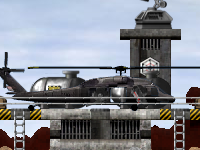
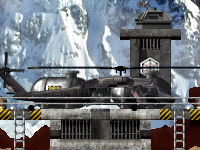
+ Backgrounds eingeführt: Schneeberg 1/2, Grashügel 1/2, Nebel und Kräne. - Hazard-Background entfernt. * Cold Cash mit Backgrounds und Ground Zero mit neuen Backgrounds ausgestattet.

diff --git a/ModernCombatFINALTRY.c4f/Backgrounds.c4d/SnowMountain.c4d/Script.c b/ModernCombatFINALTRY.c4f/Backgrounds.c4d/SnowMountain.c4d/Script.c
@@ -1,10 +1,12 @@
-/*-- Docks --*/
+/*-- Schneeberg --*/
 
 #strict
 
 
+/* Initialisierung */
+
 public func Initialize()
 {
   SetCategory(GetCategory() | C4D_Parallax() | C4D_Background());
-  Local()=40; Local(1)=60;
+  Local()=30; Local(1)=30;
 }

diff --git a/ModernCombatFINALTRY.c4f/Backgrounds.c4d/Docks.c4d/Script.c b/ModernCombatFINALTRY.c4f/Backgrounds.c4d/Docks.c4d/Script.c
@@ -1,0 +1,12 @@
+/*-- Schneeberg --*/
+
+#strict
+
+
+/* Initialisierung */
+
+public func Initialize()
+{
+  SetCategory(GetCategory() | C4D_Parallax() | C4D_Background());
+  Local()=40; Local(1)=60;
+}

diff --git a/ModernCombatFINALTRY.c4f/Backgrounds.c4d/Fog.c4d/Script.c b/ModernCombatFINALTRY.c4f/Backgrounds.c4d/Fog.c4d/Script.c
@@ -1,0 +1,12 @@
+/*-- Schneeberg --*/
+
+#strict
+
+
+/* Initialisierung */
+
+public func Initialize()
+{
+  SetCategory(GetCategory() | C4D_Parallax() | C4D_Background());
+  Local()=60; Local(1)=80;
+}

diff --git a/ModernCombatFINALTRY.c4f/Backgrounds.c4d/SnowMountain2.c4d/Script.c b/ModernCombatFINALTRY.c4f/Backgrounds.c4d/SnowMountain2.c4d/Script.c
@@ -1,0 +1,12 @@
+/*-- Schneeberg --*/
+
+#strict
+
+
+/* Initialisierung */
+
+public func Initialize()
+{
+  SetCategory(GetCategory() | C4D_Parallax() | C4D_Background());
+  Local()=40; Local(1)=30;
+}
